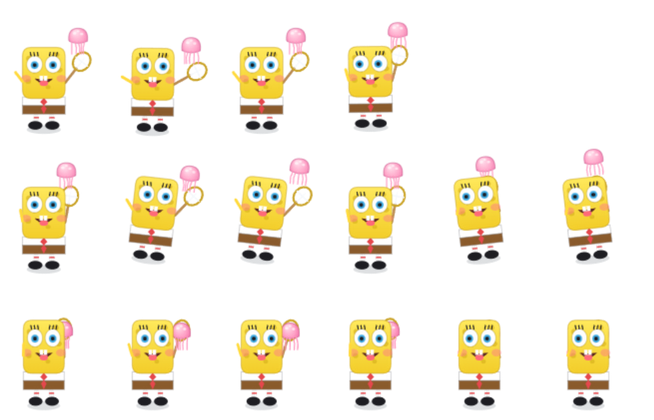
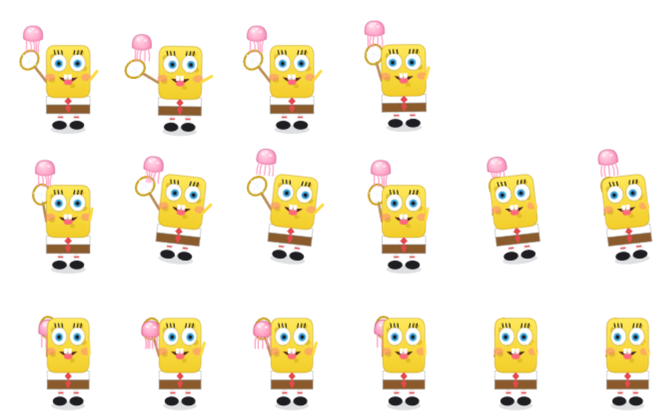
邪恶方块网兜移到左侧；改名「别感冒」并升到 v3.0；宠物整体放大
1) 邪恶方块的网兜和水母镜像到左边（拿网的手臂从右改到左，
   网圈方向、水母偏移、另一条空手臂全部跟着镜像）

2) 「电子坤坤」-> 「别感冒」，版本 v2.0 -> v3.0
   把代码里所有出现的地方一起改了（共 9 处 + 托盘提示）：
   左上角标题、自绘标题栏、窗口标题、任务栏用 document.title、
   系统通知标题、托盘 tooltip、以及各文件头注释。
   package.json 版本同步到 3.0.0。

3) 宠物整体放大：帧高映射的本地单位 278 -> 310（约 +11%）
   缩小下边界的正确做法是「把宠物放大」，让它占满格子的比例更高，
   而不是把内容往下挪 —— 后者视觉上宠物反而整体下移了。

diff --git a/app.js b/app.js
@@ -1,6 +1,6 @@
 /* =========================================================================
-   电子坤坤 · 喝水休息提醒器
-   纯前端实现：计时 / 提醒 / 音效 / 语音 / Canvas 电子坤坤动画
+   别感冒 · 喝水休息提醒器
+   纯前端实现：计时 / 提醒 / 音效 / 语音 / Canvas 别感冒动画
    所有美术与音乐均由代码实时绘制与合成（原创），无任何外部素材与依赖
    ========================================================================= */
 (function () {
@@ -302,7 +302,7 @@
   }
 
   /* =========================================================================
-     Canvas：电子坤坤
+     Canvas：别感冒
      ========================================================================= */
   /* 配色照着参考图取 */
   const C = {
@@ -464,7 +464,10 @@
     const idx = Math.floor(t * fps) % count;
     const row = a.row || 0;
     /* 与手绘角色对齐：底边落在原点、横向居中，整体高度约 278 个本地单位 */
-    const k = 278 / fh;
+    /* 帧高映射成多少本地单位。调大 = 宠物在界面上更大。
+     之前缩小下边界的做法是让内容下移，视觉上宠物反而往下跑了；
+     正确做法是把它整体放大，下边界的占比自然就小了。 */
+    const k = 310 / fh;
     const dw = fw * k, dh = fh * k;
     try {
       ctx.drawImage(skinState.img, idx * fw, row * fh, fw, fh, -dw / 2, -dh, dw, dh);
@@ -1197,7 +1200,7 @@
   function notify(title, body) {
     if (!el.chkNotify.checked) return;
     if (!('Notification' in window) || Notification.permission !== 'granted') return;
-    try { new Notification('电子坤坤 · ' + title, { body: body, tag: 'kunkun-reminder' }); } catch (e) { }
+    try { new Notification('别感冒 · ' + title, { body: body, tag: 'kunkun-reminder' }); } catch (e) { }
   }
 
   function askNotify() {
@@ -1229,9 +1232,9 @@
       if (best === null || t.remaining < best) { best = t.remaining; bestKind = it; }
     });
     if (bestKind) {
-      document.title = fmt(best) + ' ' + (bestKind.emoji || '') + ' 电子坤坤';
+      document.title = fmt(best) + ' ' + (bestKind.emoji || '') + ' 别感冒';
     } else {
-      document.title = '电子坤坤 · 喝水休息提醒器';
+      document.title = '别感冒 · 喝水休息提醒器';
     }
   }
 

diff --git a/build/make-skins.js b/build/make-skins.js
@@ -664,9 +664,9 @@ function drawSponge(ctx, q, p, kind) {
 
   /* ---- 网兜：待机时也在轻轻晃，像在找水母 ---- */
   const na = -0.55 - q.arm * 1.05 + swing * (kind === 'dance' ? 0.55 : 0.4);
-  const nx = 30 + Math.cos(na) * 26, ny = -12 + Math.sin(na) * 26;
-  limb(ctx, 30, -12, nx, ny, 3.6, '#b98b52');
-  const hoopX = nx + Math.cos(na) * 12, hoopY = ny + Math.sin(na) * 12;
+  const nx = -30 - Math.cos(na) * 26, ny = -12 + Math.sin(na) * 26;   // 镜像到左侧
+  limb(ctx, -30, -12, nx, ny, 3.6, '#b98b52');
+  const hoopX = nx - Math.cos(na) * 12, hoopY = ny + Math.sin(na) * 12;
   /* 网圈（放大一点才认得出是网兜） */
   ctx.strokeStyle = '#c9a227'; ctx.lineWidth = 3;
   ctx.beginPath(); ctx.ellipse(hoopX, hoopY, 14, 11.5, na, 0, TAU); ctx.stroke();
@@ -686,7 +686,7 @@ function drawSponge(ctx, q, p, kind) {
   }
 
   /* ---- 水母：粉色伞盖 + 触手，甩到就罩进网里 ---- */
-  const jx = caught ? hoopX : hoopX - 5 - swing * 4;
+  const jx = caught ? hoopX : hoopX + 5 + swing * 4;
   const jy = caught ? hoopY + 3 : hoopY - 34 + Math.sin(p * TAU * 2) * 6;
   ctx.globalAlpha = caught ? 1 : 0.88;
   const jg = ctx.createRadialGradient(jx - 4, jy - 8, 2, jx, jy, 15);
@@ -750,7 +750,7 @@ function drawSponge(ctx, q, p, kind) {
   oval(ctx, -25, -18, 7, 5, 0); oval(ctx, 25, -18, 7, 5, 0);
 
   /* 左臂（不拿网的那只） */
-  limb(ctx, -30, -14, -30 - Math.cos(na) * 16, -14 + Math.sin(na) * 16, 4, '#ffd93b');
+  limb(ctx, 30, -14, 30 + Math.cos(na) * 16, -14 + Math.sin(na) * 16, 4, '#ffd93b');
 }
 
 /* ============================================================ ⑤ 粉海星 */

diff --git a/index.html b/index.html
@@ -4,7 +4,7 @@
 <meta charset="UTF-8">
 <meta http-equiv="Content-Security-Policy" content="default-src 'self'; script-src 'self'; style-src 'self' 'unsafe-inline'; img-src 'self' data:; media-src 'self'; connect-src 'self'; object-src 'none'; base-uri 'none'">
 <meta name="viewport" content="width=device-width,initial-scale=1">
-<title>电子坤坤 · 喝水休息提醒器</title>
+<title>别感冒 · 喝水休息提醒器</title>
 <link rel="stylesheet" href="style.css">
 </head>
 <body>
@@ -13,7 +13,7 @@
 <div class="titlebar" id="titlebar">
   <div class="tb-left">
     <span class="tb-ico">🐣</span>
-    <span class="tb-name">电子坤坤提醒器</span>
+    <span class="tb-name">别感冒提醒器</span>
   </div>
   <div class="tb-right">
     <button class="tb-btn" id="tbMin" title="最小化">─</button>
@@ -36,7 +36,7 @@
   <div class="brand">
     <div class="logo">🏀</div>
     <div class="brand-text">
-      <h1>电子坤坤 <span class="ver">v2.0</span></h1>
+      <h1>别感冒 <span class="ver">v3.0</span></h1>
       <p class="sub">唱 · 跳 · rap · 篮球 —— 到点了就喊你喝水 / 休息</p>
     </div>
   </div>
@@ -48,7 +48,7 @@
 
 <main class="layout">
 
-  <!-- 左：电子坤坤舞台 -->
+  <!-- 左：别感冒舞台 -->
   <section class="card stage-card">
     <div class="stage-head">
       <span class="dot"></span><span class="stage-title">HOLO-STAGE / 全息舞台</span>

diff --git a/main.js b/main.js
@@ -1,5 +1,5 @@
 /* =========================================================================
-   电子坤坤提醒器 —— Electron 主进程
+   别感冒提醒器 —— Electron 主进程
    职责：
      · 无边框窗口 + 自绘标题栏；到点把窗口强制拉到前台
      · 系统托盘常驻（关闭/✕ = 收进右下角托盘，不退出）
@@ -63,7 +63,7 @@ function createWindow() {
     frame: false,                 // 无边框：普通模式用自绘标题栏，宠物模式只剩动画
     transparent: true,            // 宠物模式下窗口背景完全透明，只看得见坤坤
     backgroundColor: '#00000000',
-    title: '电子坤坤提醒器',
+    title: '别感冒提醒器',
     icon: iconPath(),
     autoHideMenuBar: true,
     show: false,
@@ -141,7 +141,7 @@ function buildTray() {
   } catch (err) {
     return;
   }
-  tray.setToolTip('电子坤坤 · 喝水休息提醒器');
+  tray.setToolTip('别感冒 · 喝水休息提醒器');
   tray.on('click', toggleWindow);
   tray.on('double-click', showWindow);
   refreshTrayMenu();

diff --git a/style.css b/style.css
@@ -1,5 +1,5 @@
 /* =========================================================
-   电子坤坤 · 喝水休息提醒器  样式表
+   别感冒 · 喝水休息提醒器  样式表
    风格：赛博霓虹 / 全息舞台 / CRT 扫描线
    ========================================================= */
 
